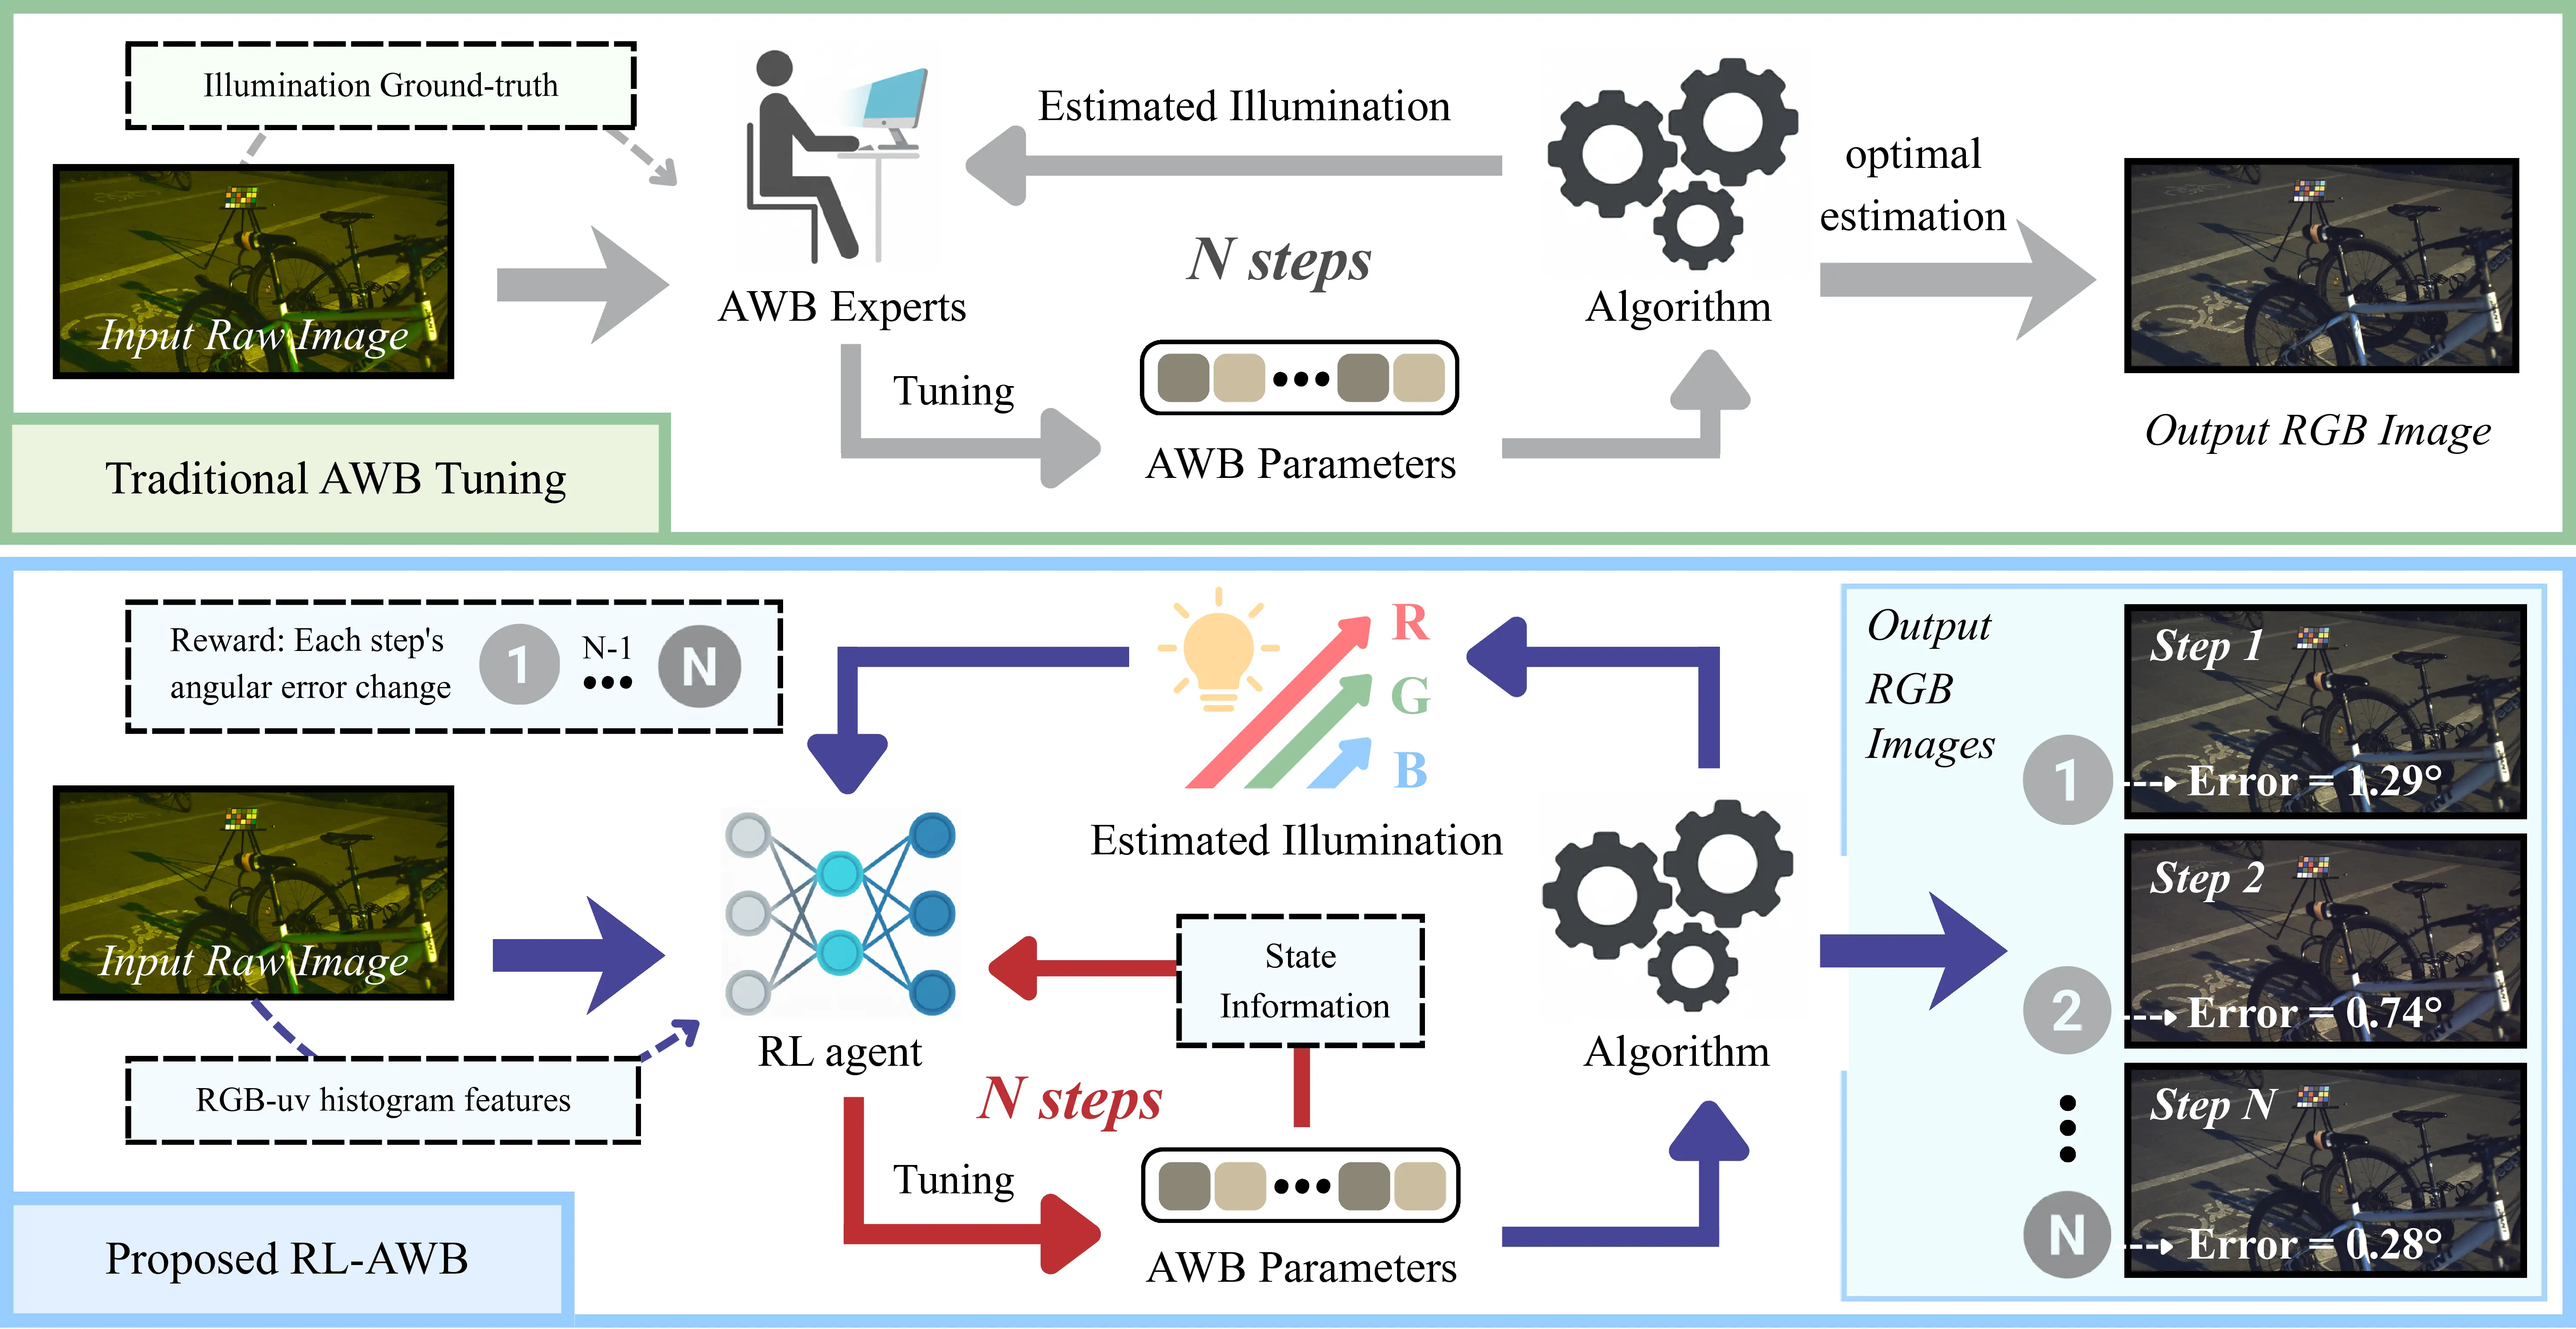
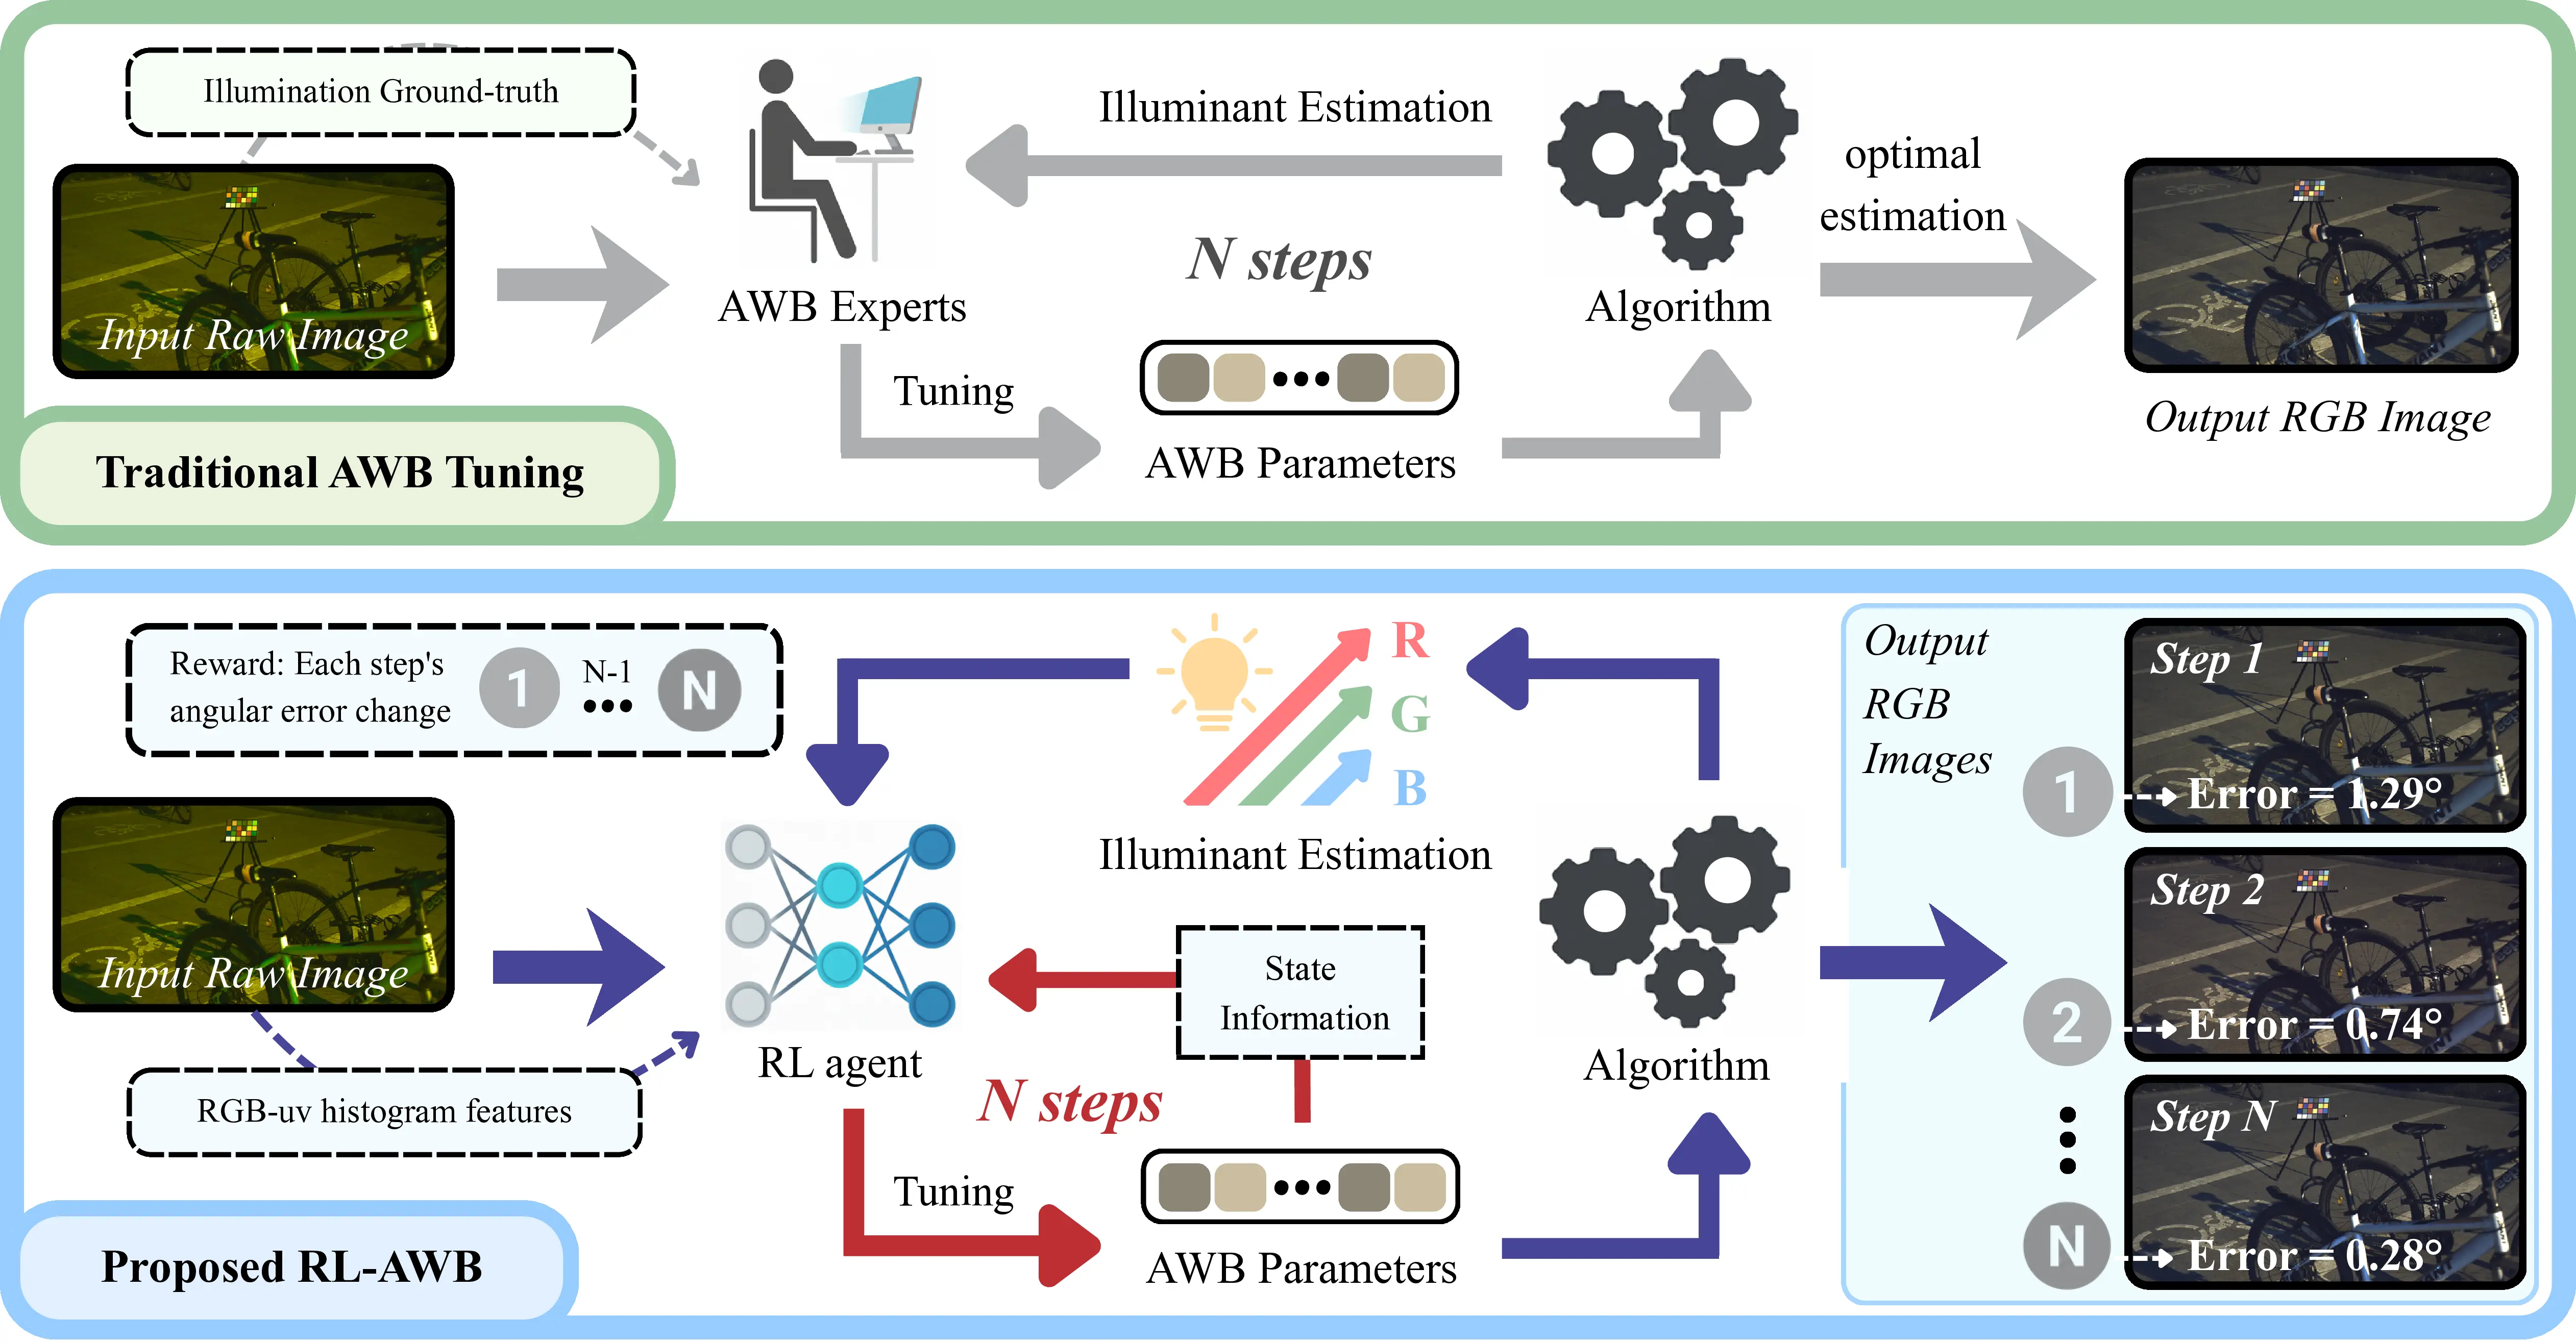
Polish RL-AWB tables and tighten research button spacing
- Decouple table captions/legends from horizontal scroll (only table body scrolls)
- Update captions: drop 'nighttime' qualifier from tables 1 and 2; tighten table 3 caption phrasing
- Reduce gap between Project Page / arXiv / Code / Dataset buttons (0.75rem → 0.35rem) on home + research list

diff --git a/research/rl-awb/index.html b/research/rl-awb/index.html
@@ -454,9 +454,15 @@
             }
             .results-table-wrapper {
                 width: 100%;
-                overflow-x: auto;
                 margin: 1.2rem 0;
                 text-align: center;        
+            }
+             
+            .results-table-wrapper .table-scroll {
+                width: 100%;
+                overflow-x: auto;
+                text-align: center;
+                -webkit-overflow-scrolling: touch;
             }
             .results-table-wrapper .table-caption {
                 font-size: 0.85rem;
@@ -769,9 +775,10 @@
                                 <h2 class="title is-3 has-text-centered">Results</h2>
                                 <div class="content has-text-justified">
                                     <div class="results-table-wrapper">
-  <p class="table-caption"><strong>Evaluation of the statistical-based methods on nighttime NCC and LEVI datasets.</strong> Angular error in degrees.</p>
+  <p class="table-caption"><strong>Evaluation of the statistical-based methods on both NCC and LEVI datasets.</strong> Angular error in degrees.</p>
   <p class="rank-legend">Cells highlighted as <span class="best">1st</span> / <span class="second">2nd</span> / <span class="third">3rd</span> per column.</p>
-  <table class="results-table">
+  <div class="table-scroll">
+    <table class="results-table">
     <thead>
       <tr>
         <th rowspan="2" class="method-col">Method</th>
@@ -821,11 +828,13 @@
       </tr>
     </tbody>
   </table>
+  </div>
 </div>
 <div class="results-table-wrapper">
-  <p class="table-caption"><strong>Cross-dataset evaluation of the learning-based methods between the nighttime NCC and LEVI datasets.</strong> All learning-based baselines are implemented using three-fold cross-validation protocols and trained on the complete dataset.</p>
+  <p class="table-caption"><strong>Cross-dataset evaluation of the learning-based methods between NCC and LEVI datasets.</strong> All learning-based baselines are implemented using three-fold cross-validation protocols and trained on the complete dataset.</p>
   <p class="rank-legend">Cells highlighted as <span class="best">1st</span> / <span class="second">2nd</span> / <span class="third">3rd</span> per column.</p>
-  <table class="results-table">
+  <div class="table-scroll">
+    <table class="results-table">
     <thead>
       <tr>
         <th class="method-col">Train &rarr; Test</th>
@@ -881,11 +890,13 @@
       </tr>
     </tbody>
   </table>
+  </div>
 </div>
 <div class="results-table-wrapper">
-  <p class="table-caption"><strong>Evaluation results on Gehler-Shi dataset trained on NCC dataset.</strong> FC<sup>4</sup>, C<sup>4</sup>, C<sup>5</sup>, PCC, GCC, ePCC, and the proposed RL-AWB are trained on the NCC dataset and evaluated on the Gehler&ndash;Shi dataset. Compared with our SGP-LRD, the proposed RL-AWB framework achieves a reduction of 5.9% in the median angular error and 9.8% in the best-25% angular error, showing that RL-AWB generalizes well across low-light and well-illuminated images.</p>
+  <p class="table-caption"><strong>Evaluation results on Gehler-Shi dataset trained on NCC dataset.</strong> FC<sup>4</sup>, C<sup>4</sup>, C<sup>5</sup>, PCC, GCC, ePCC and the proposed RL-AWB are trained on NCC dataset and evaluated on Gehler&ndash;Shi dataset. Compared with our SGP-LRD, the proposed RL-AWB framework achieves a reduction of 5.9% in the median angular error and 9.8% in the best-25% angular error, showing that RL-AWB generalizes well across low-light and well-illuminated images.</p>
   <p class="rank-legend">Cells highlighted as <span class="best">1st</span> / <span class="second">2nd</span> / <span class="third">3rd</span> per column.</p>
-  <table class="results-table">
+  <div class="table-scroll">
+    <table class="results-table">
     <thead>
       <tr>
         <th class="method-col">Method</th>
@@ -912,6 +923,7 @@
       </tr>
     </tbody>
   </table>
+  </div>
 </div>
 
 <div class="has-text-centered" style="margin: 1.0rem 0;">

diff --git a/research/friereniqa/index.html b/research/friereniqa/index.html
@@ -454,9 +454,15 @@
             }
             .results-table-wrapper {
                 width: 100%;
-                overflow-x: auto;
                 margin: 1.2rem 0;
                 text-align: center;        
+            }
+             
+            .results-table-wrapper .table-scroll {
+                width: 100%;
+                overflow-x: auto;
+                text-align: center;
+                -webkit-overflow-scrolling: touch;
             }
             .results-table-wrapper .table-caption {
                 font-size: 0.85rem;

diff --git a/index.html b/index.html
@@ -288,7 +288,7 @@
 
   .research-links a {
     display: inline-block;
-    margin-right: 0.75rem;
+    margin-right: 0.35rem;
     margin-bottom: 0.25rem;
     font-size: 0.9rem;
     color: #5b8fc4 !important;

diff --git a/research/index.html b/research/index.html
@@ -280,7 +280,7 @@
 
   .research-links a {
     display: inline-block;
-    margin-right: 0.75rem;
+    margin-right: 0.35rem;
     margin-bottom: 0.25rem;
     font-size: 0.9rem;
     color: #5b8fc4 !important;